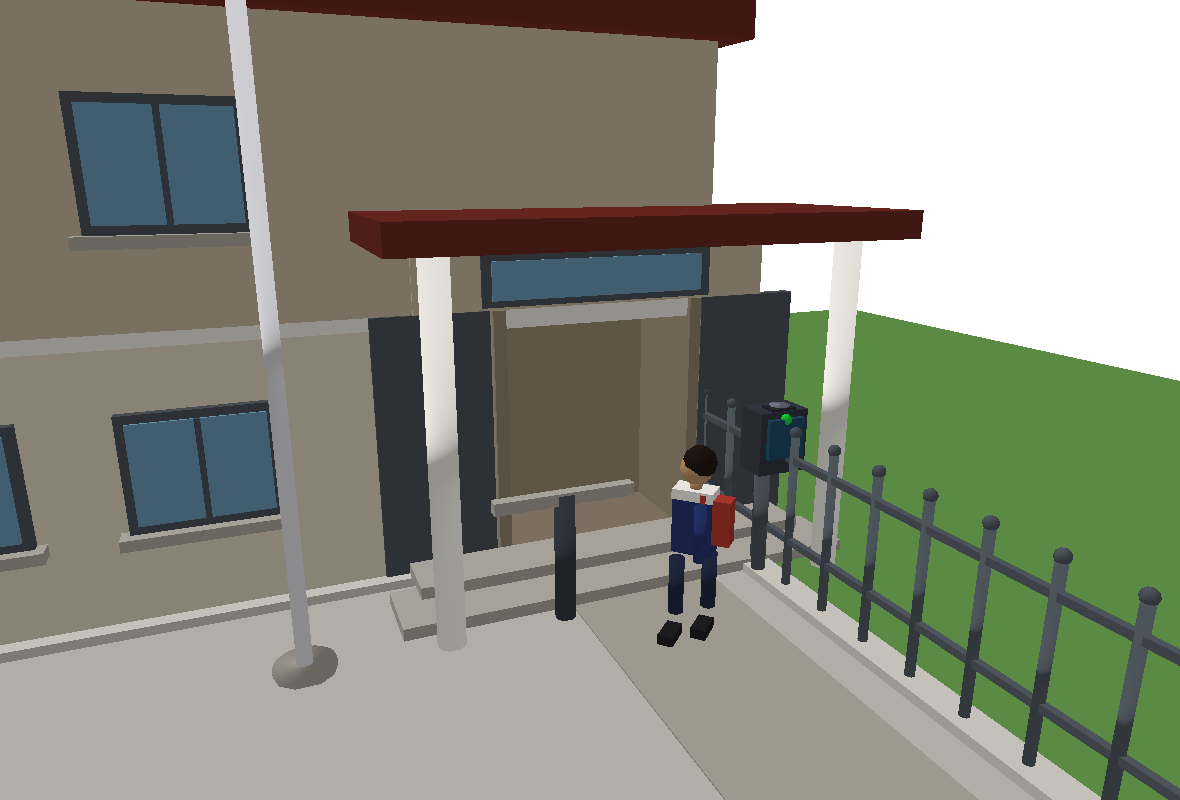
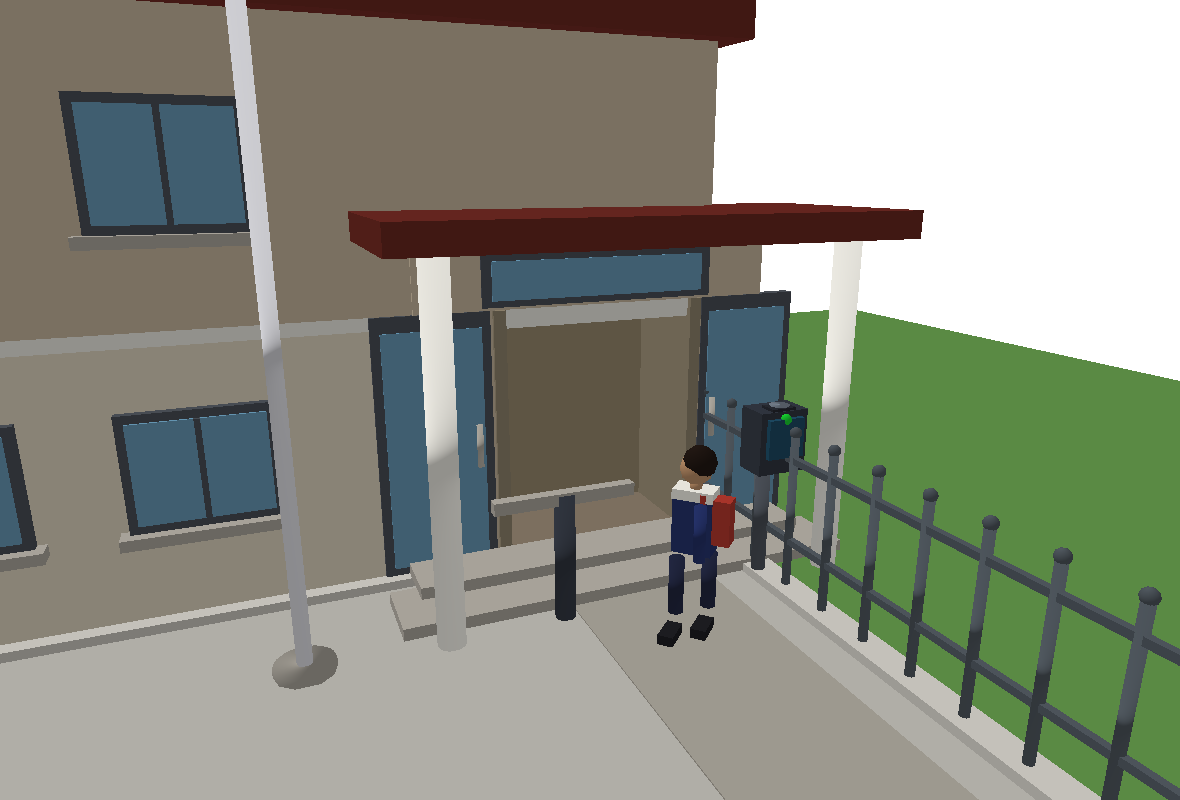
Keep door glazing and handles at their own depth
Every door part shared one base position, so the first time the doors moved
the glazing and handles snapped onto the frame plane -- three distinct
depths collapsed to one and the handles vanished into the leaf.

Changed region(s): [[0.3051, 0.4062, 0.4271, 0.7188], [0.5797, 0.375, 0.6712, 0.625]]

diff --git a/environment/rendering.py b/environment/rendering.py
@@ -235,9 +235,12 @@ class PyBulletRenderer:
                               [cx, r - 0.01, _DOOR_H])
             handle = self._cyl(0.025, 0.34, _STONE,
                                [cx - sign * (_DOOR_HALF_W - 0.12), r - 0.06, 1.05])
-            for body, off in ((leaf, 0.0), (glass, 0.0),
-                              (handle, -sign * (_DOOR_HALF_W - 0.12))):
-                self._door_parts.append((body, np.array([cx + off, r, 0.0]), sign))
+            # Each part keeps its own depth and height; a shared base collapsed the glazing
+            # and handle onto the frame plane the moment the doors first moved.
+            for body, dx_off, y, z in ((leaf, 0.0, r + 0.02, _DOOR_H),
+                                       (glass, 0.0, r - 0.01, _DOOR_H),
+                                       (handle, -sign * (_DOOR_HALF_W - 0.12), r - 0.06, 1.05)):
+                self._door_parts.append((body, np.array([cx + dx_off, y, z]), sign))
 
         self._label("lbl_school", "GREENHILL  SCHOOL", [dx - 2.0, r + depth + 0.1, 4.75],
                     colour=(0.20, 0.16, 0.14), size=1.8)
@@ -442,9 +445,8 @@ class PyBulletRenderer:
     def _place_doors(self, openness):
         p = self.p
         for body, base, sign in self._door_parts:
-            pos, _ = p.getBasePositionAndOrientation(body, physicsClientId=self.cid)
             p.resetBasePositionAndOrientation(
-                body, [base[0] + sign * _DOOR_SLIDE * openness, base[1] + 0.02, pos[2]],
+                body, [base[0] + sign * _DOOR_SLIDE * openness, base[1], base[2]],
                 [0, 0, 0, 1], physicsClientId=self.cid)
 
     def _entry_sequence(self, x, y):
